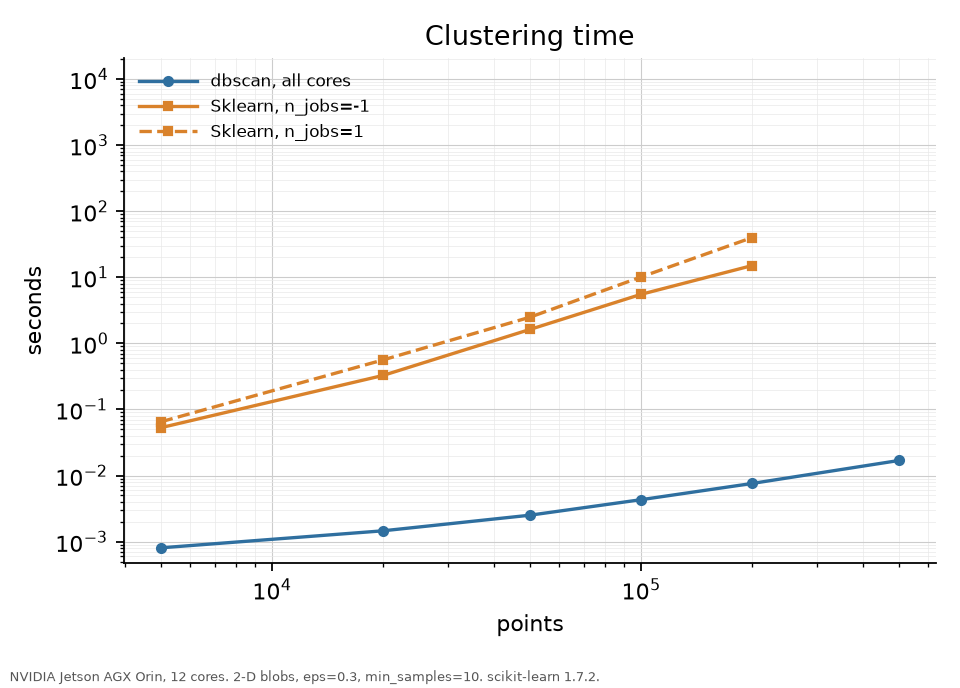
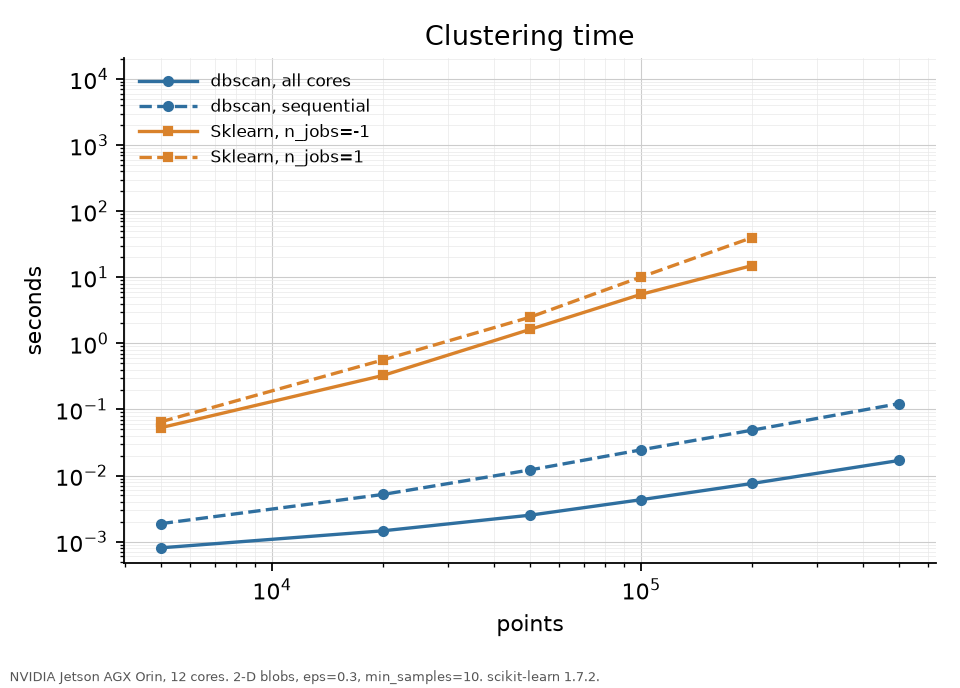
README: document sequential mode and add it to the benchmark charts

diff --git a/README.md b/README.md
@@ -13,6 +13,7 @@ Data sets with dimensionality 2 - 20 are supported by default, which can be modi
 
 <img src="benchmark_time.png" alt="timing" width="400"/>
 <img src="benchmark_ram.png" alt="memory" width="400"/>
+<img src="benchmark_efficiency.png" alt="per-core throughput" width="400"/>
 <img src="example.png" alt="example" width="400"/>
 
 ## Tutorial
@@ -43,6 +44,16 @@ labels, core_samples_mask = DBSCAN(X, eps=0.3, min_samples=10)
 
 * ``labels``: A length ``n`` Numpy array (``dtype=np.int32``) containing cluster IDs of the data points, in the same ordering as the input data. Noise points are given a pseudo-ID of ``-1``.
 * ``core_samples_mask``: A length ``n`` Numpy array (``dtype=np.bool_``) masking the core points, in the same ordering as the input data.
+
+#### Sequential mode
+
+``DBSCAN`` uses every available thread by default. Sequential mode runs it on the calling thread instead, which is slower in wall-clock but several times more efficient per core, so it is the better choice when the caller is already running work on every core.
+
+```
+from dbscan import set_sequential, get_sequential
+set_sequential()       # or set_sequential(False) to go back to all threads
+get_sequential()       # -> True
+```
 
 We provide a complete example below that generates a toy data set, computes the DBSCAN clustering, and visualizes the result as shown in the plot above.
 
